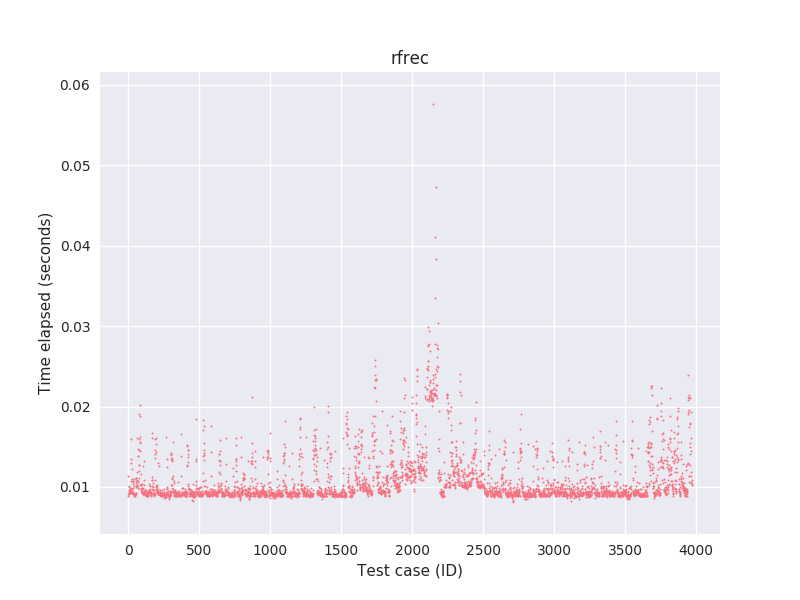
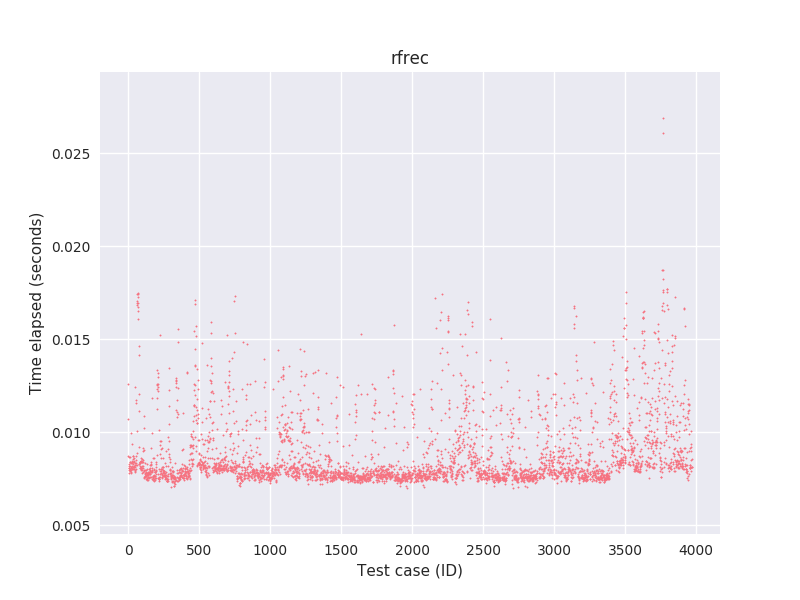
code profiling - reborn

diff --git a/assignment1/assignment1.py b/assignment1/assignment1.py
@@ -15,8 +15,8 @@ from termcolor import colored
 
 import pandas
 import csv
+import math
 import numpy as np
-from sklearn.metrics import mean_squared_error
 from math import sqrt
 import matplotlib.pyplot as plt
 import seaborn as sns
@@ -53,11 +53,8 @@ def global_average(ratings):
 
 
 def bias_item(ratings, item, global_avg):
-    # item_ratings = ratings[:, item]
     bias = 0
     Ri = 0
-    # for rating in item_ratings:
-        # bias += rating - global_avg
     for i in range(len(ratings)):
         bias += ratings[i][item] - global_avg
         Ri += 1
@@ -147,8 +144,14 @@ def RF_Rec(ratings, user, item):
 def user_mean_ratings(ratings, user):
     # get only existing ratings
     # filter unknown values (0)
-    existing_ratings = list(filter(lambda a: a != 0, ratings[user]))
-    mean = np.average(existing_ratings)
+    user_ratings = ratings[user]
+    total = 0
+    sum = 0
+    for rating in user_ratings:
+        if (rating != 0):
+            sum += rating
+            total += 1
+    mean = (sum / total)
     return mean
 
 
@@ -196,7 +199,7 @@ def similarity_item(ratings, i, j):
 
 def k_most_similar_items(ratings, u, i, k):
     # similarity list has size 'number of items'
-    similarities = np.full((ratings.shape[1]), -1, dtype=float)
+    similarities = np.full((ratings.shape[1]), 0, dtype=float)
     # items that user 'u' rated
     user_ratings = ratings[u]
 
@@ -206,7 +209,6 @@ def k_most_similar_items(ratings, u, i, k):
         # filter items that user did not rate
         if (rating != 0):
             similarities[movie_id] = similarity_item(ratings, i, movie_id)
-            # similarities[movie_id] = similarities_matrix[i][movie_id]
 
     # sort similarities list and get 'k' most similar
     k_biggest = similarities[np.argsort(similarities)[-k:]]
@@ -227,6 +229,13 @@ def k_most_similar_items(ratings, u, i, k):
     return k_most_similar
 
 
+def scale_range(input, min, max):
+    input += -(np.min(input))
+    input /= np.max(input) / (max - min)
+    input += min
+    return input
+
+
 def itemCF(ratings, u, i, k):
     numerator = 0
     denominator = 0
@@ -237,6 +246,12 @@ def itemCF(ratings, u, i, k):
         numerator += similarity * ratings[u][movie_id]
         denominator += similarity
     prediction = (numerator / denominator)
+    # normalize if values didn't reach required range
+    if (prediction < 1 or prediction > 5):
+        prediction = scale_range(prediction, 1, 5)
+    # if it fails terribly, return the average for that item
+    if (math.isnan(prediction)):
+        prediction = np.average(ratings[:, i])
     return prediction
 
 
@@ -244,17 +259,17 @@ def itemCF(ratings, u, i, k):
 # MAIN #
 ########
 def rmse(rating, prediction):
-    rmse = sqrt(mean_squared_error(rating, prediction))
+    rmse = sqrt(((rating - prediction) ** 2).mean(axis=None))
+    return rmse
 
 
 def error_check(prediction, id):
-    if (prediction < 1 or prediction > 5):
+    if (prediction < 1 or prediction > 5 or math.isnan(prediction)):
         text = colored('ERROR: ', 'red', attrs=['reverse', 'blink'])
-        print(text + "prediction {} on id {}".format(prediction, id))
+        print(text + "prediction {} at position {}".format(prediction, id))
 
 
 def main():
-
     text = colored('Recommender Systems - Assignment 1', 'white', attrs=['reverse', 'blink'])
     print(text)
 
@@ -266,6 +281,7 @@ def main():
     print("\t 4 - Bayes")
     print("\t 5 - SVD")
     print("\t 6 - SGD")
+    print("\t 7 - Code profiling only")
     print("::: ", end='')
     method = int(input())
 
@@ -293,25 +309,28 @@ def main():
 
     # name results CSV
     if (method == 1):
-        results_filename = "itemCF"
+        algorithm = "itemCF"
     elif (method == 2):
-        results_filename = "baseline"
+        algorithm = "baseline"
     elif (method == 3):
-        results_filename = "rfrec"
+        algorithm = "rfrec"
     elif (method == 4):
-        results_filename = "bayes"
+        algorithm = "bayes"
     elif (method == 5):
-        results_filename = "svd"
+        algorithm = "svd"
     elif (method == 6):
-        results_filename = "sgd"
+        algorithm = "sgd"
+    elif (method == 7):
+        algorithm = "null"
 
     # write results CSV header
-    results_csv = open('results/' + results_filename + '.csv', 'w', newline='')
+    results_csv = open('results/' + algorithm + '.csv', 'w', newline='')
     results_writer = csv.writer(results_csv, delimiter=',', quotechar='|', quoting=csv.QUOTE_MINIMAL)
     results_writer.writerow(['id', 'rating'])
 
     # run tests and write to results csv
     counter = 0
+    times = []
     print("Calculatig predictions...")
     with progressbar.ProgressBar(max_value=3970) as bar:
         for row in test_data.itertuples():
@@ -319,6 +338,7 @@ def main():
             user = getattr(row, "user_id")
             movie = getattr(row, "movie_id")
             # run chosen recommendation algorithm for (u, i)
+            start = timer()
             if (method == 1):
                 prediction = itemCF(ratings, user-1, movie-1, 20)
                 error_check(prediction, id)
@@ -337,11 +357,32 @@ def main():
             elif (method == 6):
                 prediction = SGD(ratings, user-1, movie-1)
                 error_check(prediction, id)
+            elif (method == 7):
+                pass
 
+            end = timer()
+            time_elapsed = end - start
+            times.append(time_elapsed)
             # write results to csv
-            results_writer.writerow([id, prediction])
+            if (method != 7):
+                results_writer.writerow([id, prediction])
             counter += 1
             bar.update(counter)
+
+    print("Plotting time elapsed...")
+    sns.set()
+    # plot time for each iteration
+    plt.scatter(range(len(times)), times, s=1, c="#F67280")
+    plt.xlabel("Test case (ID)")
+    plt.ylabel("Time elapsed (seconds)")
+    plt.title(algorithm)
+    # get current figure
+    figure = plt.gcf()
+    # # 800 x 600
+    figure.set_size_inches(8, 6)
+    # # save with high DPI
+    plt.savefig("plots/time_" + algorithm + ".png", dpi=100)
+    plt.clf()
 
     print("Code profiling...")
     # code profiling
@@ -354,87 +395,85 @@ def main():
     times["svd"] = []
     times["sgd"] = []
 
-    rmse = {}
-    rmse["itemcf"] = []
-    rmse["baseline"] = []
-    rmse["rfrec"] = []
-    rmse["bayes"] = []
-    rmse["svd"] = []
-    rmse["sgd"] = []
+    rmses = {}
+    rmses["itemcf"] = []
+    rmses["baseline"] = []
+    rmses["rfrec"] = []
+    rmses["bayes"] = []
+    rmses["svd"] = []
+    rmses["sgd"] = []
 
     counter = 0
-    with progressbar.ProgressBar(max_value=3970) as bar:
-        for row in train_data.itertuples():
-            id = getattr(row, "id")
+    print("Split train data size: ", end='')
+    split_size = int(input())
+    train_split = train_data.tail(split_size)
+    with progressbar.ProgressBar(max_value=split_size) as bar:
+        for row in train_split.itertuples():
+            # id = getattr(row, "id")
             user = getattr(row, "user_id")
             movie = getattr(row, "movie_id")
             rating = getattr(row, "rating")
 
             start = timer()
             prediction = itemCF(ratings, user-1, movie-1, 20)
+            error_check(prediction, counter)
             end = timer()
             time_elapsed = end - start
             times["itemcf"].append(time_elapsed)
-            rmse["itemcf"].append(rmse(rating, prediction))
+            rmses["itemcf"].append(rmse(rating, prediction))
 
             start = timer()
             prediction = baseline(ratings, user-1, movie-1, global_avg)
+            error_check(prediction, counter)
             end = timer()
             time_elapsed = end - start
             times["baseline"].append(time_elapsed)
-            rmse["baseline"].append(rmse(rating, prediction))
+            rmses["baseline"].append(rmse(rating, prediction))
 
             start = timer()
             prediction = RF_Rec(ratings, user-1, movie-1)
+            error_check(prediction, counter)
             end = timer()
             time_elapsed = end - start
             times["rfrec"].append(time_elapsed)
-            rmse["rfrec"].append(rmse(rating, prediction))
+            rmses["rfrec"].append(rmse(rating, prediction))
 
-            start = timer()
-            prediction = bayes_method(ratings, user-1, movie-1)
-            end = timer()
-            time_elapsed = end - start
-            times["bayes"].append(time_elapsed)
-            rmse["bayes"].append(rmse(rating, prediction))
+            # start = timer()
+            # prediction = bayes_method(ratings, user-1, movie-1)
+            # end = timer()
+            # time_elapsed = end - start
+            # times["bayes"].append(time_elapsed)
+            # rmse["bayes"].append(rmse(rating, prediction))
 
-            start = timer()
-            prediction = SVD(ratings, user-1, movie-1)
-            end = timer()
-            time_elapsed = end - start
-            times["svd"].append(time_elapsed)
-            rmse["svd"].append(rmse(rating, prediction))
+            # start = timer()
+            # prediction = SVD(ratings, user-1, movie-1)
+            # end = timer()
+            # time_elapsed = end - start
+            # times["svd"].append(time_elapsed)
+            # rmse["svd"].append(rmse(rating, prediction))
 
-            start = timer()
-            prediction = SGD(ratings, user-1, movie-1)
-            end = timer()
-            time_elapsed = end - start
-            times["sgd"].append(time_elapsed)
-            rmse["sgd"].append(rmse(rating, prediction))
+            # start = timer()
+            # prediction = SGD(ratings, user-1, movie-1)
+            # end = timer()
+            # time_elapsed = end - start
+            # times["sgd"].append(time_elapsed)
+            # rmse["sgd"].append(rmse(rating, prediction))
 
             counter += 1
             bar.update(counter)
 
 
     # colors (FLATUI)
-    # #f1c40f
-    # #c0392b
-    # #2c3e50
-    # #2980b9
-    # #27ae60
-    # #bdc3c7
-
     print("Plotting time elapsed...")
-    sns.set()
     # plot time for each iteration
-    plt.scatter(range(len(times["itemcf"])), times["itemcf"], s=1)
-    plt.scatter(range(len(times["baseline"])), times["baseline"], s=1)
-    plt.scatter(range(len(times["rfrec"])), times["rfrec"], s=1)
-    plt.scatter(range(len(times["bayes"])), times["bayes"], s=1)
-    plt.scatter(range(len(times["svd"])), times["svd"], s=1)
-    plt.scatter(range(len(times["sgd"])), times["sgd"], s=1)
+    plt.scatter(range(len(times["itemcf"])), times["itemcf"], s=4, c="#f1c40f", label="item-item CF")
+    plt.scatter(range(len(times["baseline"])), times["baseline"], s=4, c="#c0392b", label="Baseline")
+    plt.scatter(range(len(times["rfrec"])), times["rfrec"], s=4, c="#2c3e50", label="RF-Rec")
+    # plt.scatter(range(len(times["bayes"])), times["bayes"], s=4, c="#2980b9")
+    # plt.scatter(range(len(times["svd"])), times["svd"], s=4, c="#27ae60")
+    # plt.scatter(range(len(times["sgd"])), times["sgd"], s=4, c="#bdc3c7")
 
-    plt.axis("off")
+    plt.legend()
     plt.xlabel("Test case (ID)")
     plt.ylabel("Time elapsed (seconds)")
     plt.title("Time elapsed")
@@ -445,18 +484,19 @@ def main():
     figure.set_size_inches(8, 6)
     # # save with high DPI
     plt.savefig("plots/time_elapsed.png", dpi=100)
+    plt.clf()
 
     print("Plotting RMSE...")
-    sns.set()
+    # sns.set()
     # plot time for each iteration
-    plt.scatter(range(len(rmse["itemcf"])), rmse["itemcf"], s=1)
-    plt.scatter(range(len(rmse["baseline"])), rmse["baseline"], s=1)
-    plt.scatter(range(len(rmse["rfrec"])), rmse["rfrec"], s=1)
-    plt.scatter(range(len(rmse["bayes"])), rmse["bayes"], s=1)
-    plt.scatter(range(len(rmse["svd"])), rmse["svd"], s=1)
-    plt.scatter(range(len(rmse["sgd"])), rmse["sgd"], s=1)
+    plt.scatter(range(len(rmses["itemcf"])), rmses["itemcf"], s=4, c="#f1c40f", label="item-item CF")
+    plt.scatter(range(len(rmses["baseline"])), rmses["baseline"], s=4, c="#c0392b", label="Baseline")
+    plt.scatter(range(len(rmses["rfrec"])), rmses["rfrec"], s=4, c="#2c3e50", label="RF-Rec")
+    # plt.scatter(range(len(rmses["bayes"])), rmses["bayes"], s=4, c="#2980b9")
+    # plt.scatter(range(len(rmses["svd"])), rmses["svd"], s=4, c="#27ae60")
+    # plt.scatter(range(len(rmses["sgd"])), rmses["sgd"], s=4, c="#bdc3c7")
 
-    plt.axis("off")
+    plt.legend()
     plt.xlabel("Test case (ID)")
     plt.ylabel("RMSE")
     plt.title("RMSE")
